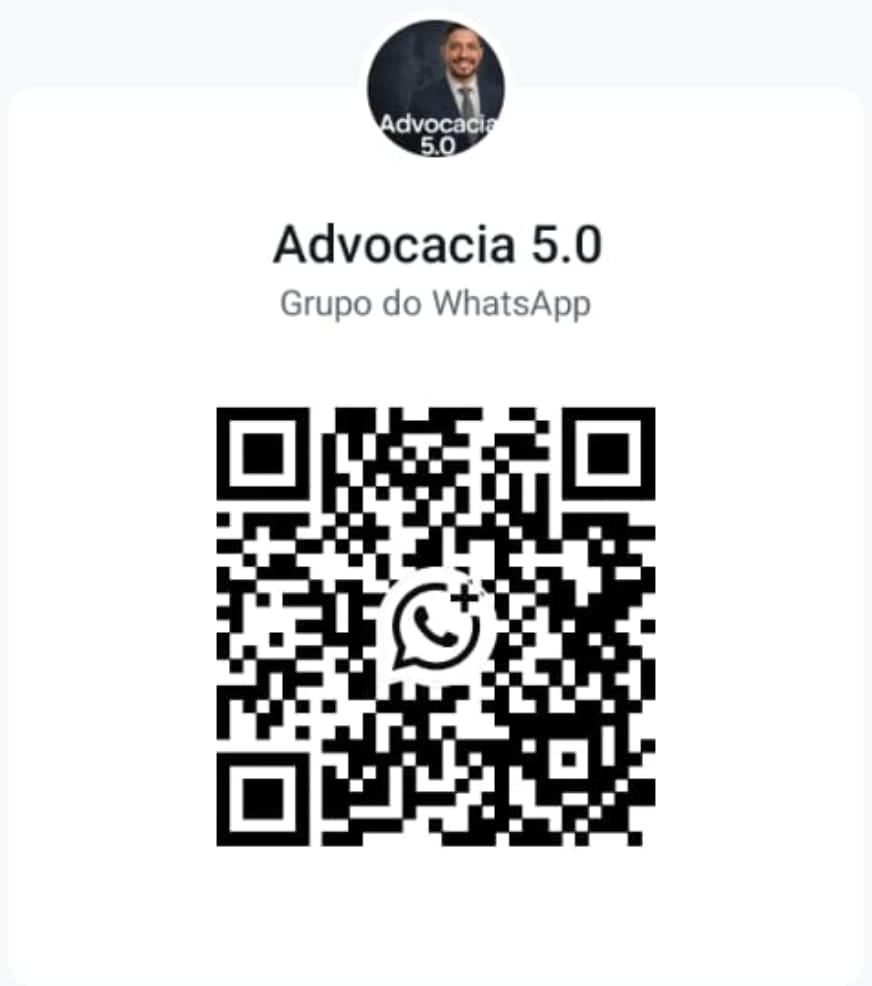
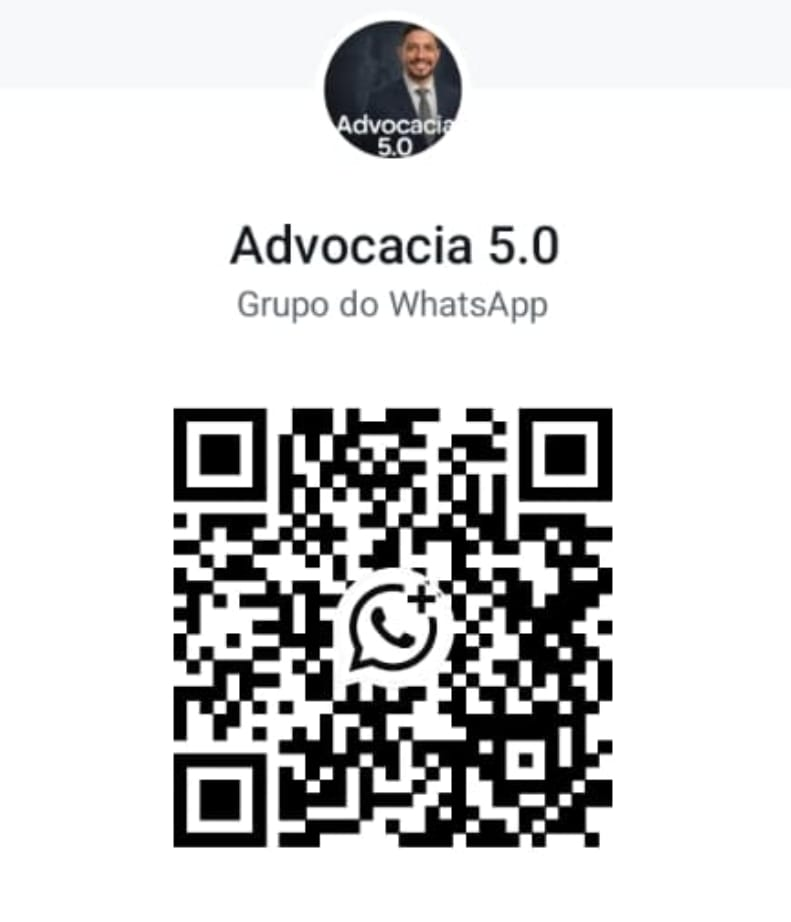
Add files via upload

diff --git a/aula.html b/aula.html
@@ -582,14 +582,14 @@
                     <img src="https://raw.githubusercontent.com/tuliomattos/advocacia5.0/main/fotos/qrcode.png" 
                          alt="QR Code para entrar no grupo do WhatsApp"
                          class="qrcode-image"
-                         onerror="this.onerror=null; this.src='https://api.qrserver.com/v1/create-qr-code/?size=300x300&data=https://chat.whatsapp.com/DGv5JGM9mxi7guamcOiMP3';">
+                         onerror="this.onerror=null; this.src='https://api.qrserver.com/v1/create-qr-code/?size=300x300&data=https://chat.whatsapp.com/FeknLjI5tAjKTyiZ6hKdTd';">
                     <p class="qrcode-note text-center">Escaneie com seu celular</p>
                 </div>
 
                 <!-- Container de Botões -->
                 <div class="buttons-container">
                     <!-- Botão WhatsApp -->
-                    <a href="https://chat.whatsapp.com/DGv5JGM9mxi7guamcOiMP3" 
+                    <a href="https://chat.whatsapp.com/FeknLjI5tAjKTyiZ6hKdTd" 
                        target="_blank" 
                        class="btn-whatsapp">
                         <i class="fab fa-whatsapp"></i> ENTRAR NO GRUPO AGORA
@@ -775,7 +775,7 @@
             const qrImage = document.querySelector('.qrcode-image');
             if (qrImage && qrImage.naturalHeight === 0) {
                 // QR Code falhou ao carregar, usar URL alternativa
-                qrImage.src = 'https://api.qrserver.com/v1/create-qr-code/?size=300x300&data=https://chat.whatsapp.com/DGv5JGM9mxi7guamcOiMP3';
+                qrImage.src = 'https://api.qrserver.com/v1/create-qr-code/?size=300x300&data=https://chat.whatsapp.com/FeknLjI5tAjKTyiZ6hKdTd';
             }
         });
         
